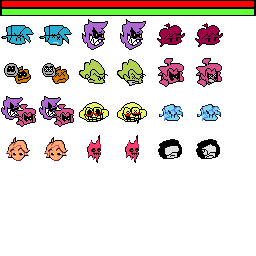
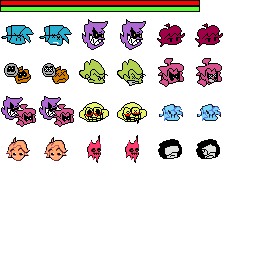
Change health bar size and score position

Changed region(s): [[0.0, 0.0, 1.0, 0.0625]]

diff --git a/src/stage.c b/src/stage.c
@@ -614,7 +614,7 @@ static void Stage_DrawHealth(s16 health, u8 i, boolean is_player)
 		dying = (health <= 2000) * icon_size;
 	
 	//Get src
-	fixed_t hx = (128 << FIXED_SHIFT) * (10000 - health) / 10000;
+	fixed_t hx = (100 << FIXED_SHIFT) * (10000 - health) / 10000;
 	RECT src = {
 		(i % 3) * (icon_size << 1) + dying,
 		16 + (i / 3) * icon_size,
@@ -625,7 +625,7 @@ static void Stage_DrawHealth(s16 health, u8 i, boolean is_player)
 	//Get dst
 	RECT_FIXED dst = {
 		hx + icon_x * FIXED_DEC((icon_size >> 1) - 1,1) - FIXED_DEC(icon_size >> 1,1),
-		FIXED_DEC(SCREEN_HEIGHT2 - icon_size - 10, 1),
+		FIXED_DEC(SCREEN_HEIGHT2 - icon_size - 12, 1),
 		src.w << FIXED_SHIFT,
 		src.h << FIXED_SHIFT
 	};
@@ -1500,9 +1500,24 @@ void Stage_Tick(void)
 				
 				//Display score
 				RECT score_src = {80, 224, 40, 10};
-				RECT_FIXED score_dst = {(i ^ (stage.mode == StageMode_Swap)) ? FIXED_DEC(-100,1) : FIXED_DEC(14,1), (SCREEN_HEIGHT2 - 42) << FIXED_SHIFT, FIXED_DEC(40,1), FIXED_DEC(10,1)};
+				RECT_FIXED score_dst = {0, (SCREEN_HEIGHT2 - 22) << FIXED_SHIFT, FIXED_DEC(40,1), FIXED_DEC(10,1)};
 				if (stage.downscroll)
 					score_dst.y = -score_dst.y - score_dst.h;
+				
+				s16 score_x = -28; 
+					
+				//Change the score X position when it's in multiplayer mode.
+				if (stage.mode == StageMode_2P)
+				{
+					//Opponent
+					if (i == 1)
+						score_x = -100;	
+					//Player
+					else
+						score_x = 14;
+				}
+				
+				score_dst.x = score_x << FIXED_SHIFT;
 				
 				Stage_DrawTex(&stage.tex_hud0, &score_src, &score_dst, stage.bump);
 				
@@ -1549,9 +1564,9 @@ void Stage_Tick(void)
 				Stage_DrawHealth(stage.player_state[0].health, stage.opponent->health_i,  false);
 				
 				//Draw health bar
-				RECT health_fill = {0, 0, 256 - (256 * stage.player_state[0].health / 20000), 8};
-				RECT health_back = {0, 8, 256, 8};
-				RECT_FIXED health_dst = {FIXED_DEC(-128,1), (SCREEN_HEIGHT2 - 32) << FIXED_SHIFT, 0, FIXED_DEC(8,1)};
+				RECT health_fill = {0, 0, 200 - (200 * stage.player_state[0].health / 20000), 6};
+				RECT health_back = {0, 6, 200, 6};
+				RECT_FIXED health_dst = {FIXED_DEC(-100,1), (SCREEN_HEIGHT2 - 32) << FIXED_SHIFT, 0, FIXED_DEC(6,1)};
 				if (stage.downscroll)
 					health_dst.y = -health_dst.y - health_dst.h;
 				
